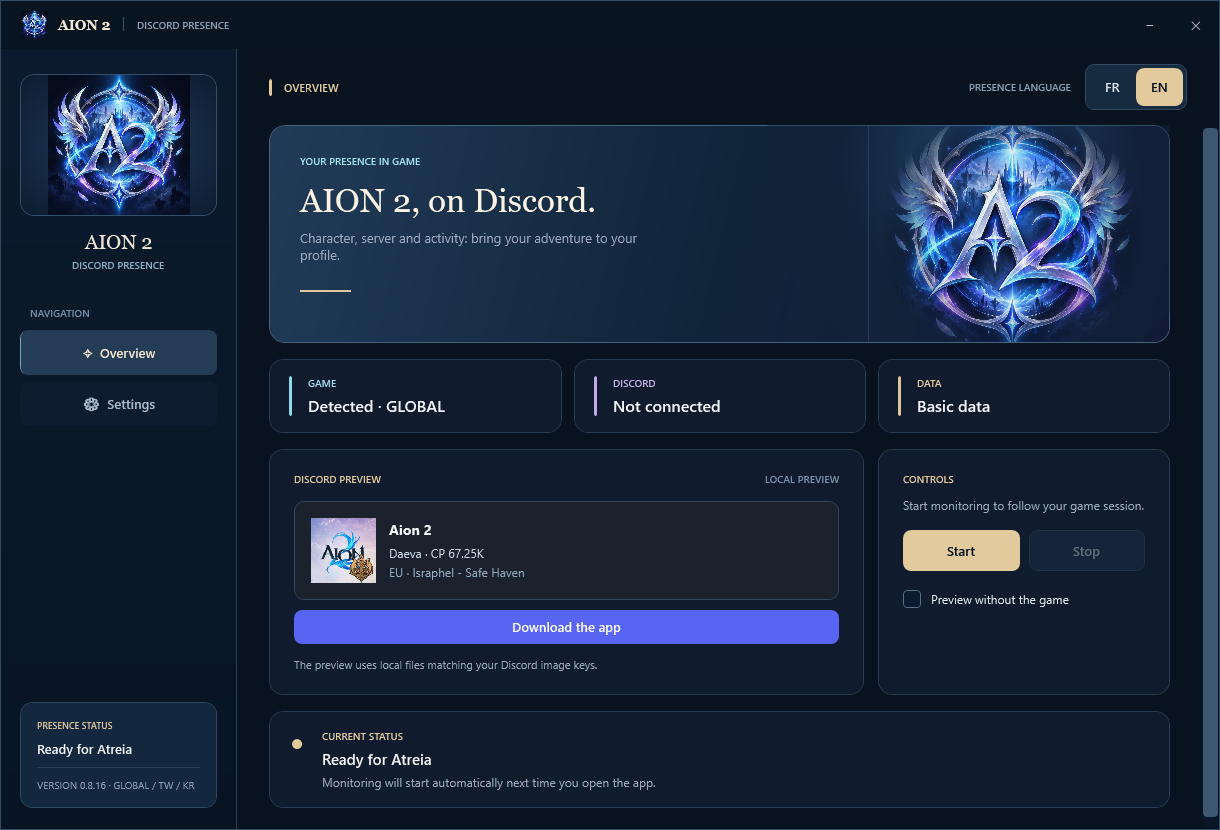
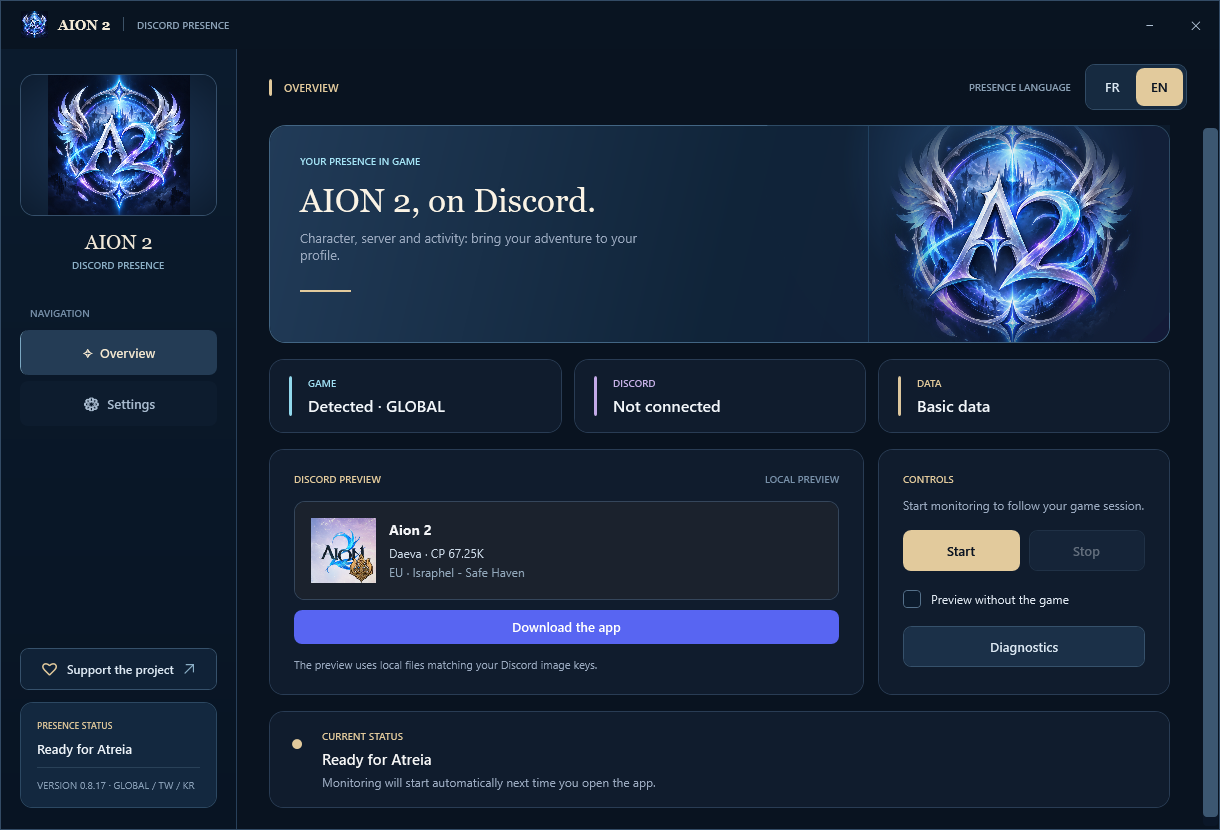
Update documentation and screenshots for 0.8.17

Changed region(s): [[0.7164, 0.753, 0.9656, 0.8133], [0.0311, 0.7831, 0.1557, 0.8133]]

diff --git a/README.md b/README.md
@@ -20,7 +20,7 @@ A Discord developer account is not required. The shared Application ID and game/
 
 ## Download and first setup
 
-1. Download [AionPresence-Setup-0.8.16.exe](https://github.com/KaiiZzeR971/AION-2-Discord-Rich-Presence/releases/download/v0.8.16/AionPresence-Setup-0.8.16.exe) from this repository's Releases.
+1. Download [AionPresence-Setup-0.8.17.exe](https://github.com/KaiiZzeR971/AION-2-Discord-Rich-Presence/releases/download/v0.8.17/AionPresence-Setup-0.8.17.exe) from this repository's Releases.
 2. Run the installer. Installation is required. The app is installed for your Windows account and added to the Start menu.
 3. For Global automatic detection, complete the [Npcap setup](#npcap-setup-for-global) below before starting the game.
 4. Open **AION 2 Discord Presence** from the Start menu once. Select **EN** or **FR**, leave the client selection on **Auto**, and choose which fields to display in Settings.
@@ -29,7 +29,7 @@ A Discord developer account is not required. The shared Application ID and game/
 
 After setup, the app launches quietly near the Windows clock when the game starts. You can open its window from the notification icon. Preferences are saved automatically. Unavailable data and disabled fields are omitted from the presence.
 
-The installer is currently **unsigned**, so Windows may display a warning. A [SHA-256 checksum](https://github.com/KaiiZzeR971/AION-2-Discord-Rich-Presence/releases/download/v0.8.16/AionPresence-Setup-0.8.16.sha256) is provided alongside the installer.
+The installer is currently **unsigned**, so Windows may display a warning. A [SHA-256 checksum](https://github.com/KaiiZzeR971/AION-2-Discord-Rich-Presence/releases/download/v0.8.17/AionPresence-Setup-0.8.17.sha256) is provided alongside the installer.
 
 ## Npcap setup for Global
 
@@ -100,8 +100,13 @@ Default visibility: character, CP, class icon, region, server, zone, party, craf
 - A Discord button linking to this project's latest release. Enabled by default and configurable in **Settings → Visibility**.
 - In-app updates under **Settings → Updates**. Automatic installation is **on by default** for new settings; saved choices are preserved. Background checks run at most every six hours in either mode. If automatic installation is disabled, a Windows notification announces available updates. After installation, a notification confirms the installed version. Downloads are checked against GitHub's SHA-256 digest.
 - Local Discord preview and manual fallback fields.
+- **Privacy mode** from the notification icon menu. Temporarily hide the character, statistics and location without changing saved visibility choices. The game, timer, generic activity and enabled party counter remain available. Disabled by default; once enabled, it stays active across app restarts until unchecked.
+- **Local diagnostics** from the main window or notification icon menu. Check the game, Discord, Npcap, monitoring, received fields, visibility and location catalog without interrupting the presence. Preview and export an anonymized UTF-8 text report. Reports are never sent automatically and exclude character values, local paths, IP addresses, identifiers and raw error details.
+- **Support the project** in the sidebar opens [KaiiZzeR971's Ko-fi page](https://ko-fi.com/kaiizer971) in your browser.
 
 ## Troubleshooting
+
+Start with **Diagnostics** in the main window or notification icon menu. Review its suggested checks and preview the report before exporting it for support. If details are hidden, also check whether Privacy mode is enabled.
 
 | Problem | What to check |
 | --- | --- |
@@ -128,6 +133,8 @@ If a problem continues, open an [issue](https://github.com/KaiiZzeR971/AION-2-Di
 ![Update settings with automatic updates on by default](images/updates-en.png)
 
 ![Visibility settings, including the GitHub button](images/visibility-en.png)
+
+![Local diagnostics](images/diagnostic-en.png)
 
 ## FAQ
 
@@ -161,7 +168,7 @@ Aucun compte développeur Discord n'est nécessaire. L'Application ID partagé e
 
 ### Télécharger et configurer
 
-1. Téléchargez [AionPresence-Setup-0.8.16.exe](https://github.com/KaiiZzeR971/AION-2-Discord-Rich-Presence/releases/download/v0.8.16/AionPresence-Setup-0.8.16.exe) depuis les Releases de ce dépôt.
+1. Téléchargez [AionPresence-Setup-0.8.17.exe](https://github.com/KaiiZzeR971/AION-2-Discord-Rich-Presence/releases/download/v0.8.17/AionPresence-Setup-0.8.17.exe) depuis les Releases de ce dépôt.
 2. Lancez l'installateur. L'installation est obligatoire. L'application est installée pour votre compte Windows et ajoutée au menu Démarrer.
 3. Pour la détection automatique sur Global, effectuez la [configuration Npcap](#configuration-de-npcap-pour-global) ci-dessous avant de lancer le jeu.
 4. Ouvrez une première fois **AION 2 Discord Presence** depuis le menu Démarrer. Choisissez **FR** ou **EN**, laissez la version du client sur **Auto** et choisissez les champs à afficher dans les paramètres.
@@ -170,7 +177,7 @@ Aucun compte développeur Discord n'est nécessaire. L'Application ID partagé e
 
 Après cette configuration, l'application démarre discrètement près de l'horloge Windows avec le jeu. Son icône de notification permet de rouvrir la fenêtre. Les préférences sont sauvegardées automatiquement. Les champs indisponibles ou désactivés sont omis de la présence.
 
-L'installateur est actuellement **non signé** ; Windows peut afficher un avertissement. Une [somme SHA-256](https://github.com/KaiiZzeR971/AION-2-Discord-Rich-Presence/releases/download/v0.8.16/AionPresence-Setup-0.8.16.sha256) accompagne l'installateur.
+L'installateur est actuellement **non signé** ; Windows peut afficher un avertissement. Une [somme SHA-256](https://github.com/KaiiZzeR971/AION-2-Discord-Rich-Presence/releases/download/v0.8.17/AionPresence-Setup-0.8.17.sha256) accompagne l'installateur.
 
 ### Configuration de Npcap pour Global
 
@@ -241,8 +248,13 @@ Affichage initial : personnage, CP, icône de classe, région, serveur, zone, gr
 - Bouton Discord vers la dernière Release du projet, activé par défaut et configurable dans **Paramètres → Visibilité**.
 - Mises à jour intégrées dans **Paramètres → Mises à jour**. L'installation automatique est **activée par défaut** pour les nouveaux réglages ; les choix enregistrés sont conservés. La recherche en arrière-plan se fait au maximum toutes les six heures dans les deux modes. Si l'installation automatique est désactivée, une notification Windows annonce les mises à jour disponibles. Après l'installation, une notification confirme la version installée. Les téléchargements sont vérifiés avec l'empreinte SHA-256 fournie par GitHub.
 - Aperçu Discord local et champs de secours manuels.
+- **Mode confidentialité** depuis le menu de l'icône près de l'horloge. Masquez temporairement le personnage, les statistiques et la localisation sans modifier les choix d'affichage enregistrés. Le jeu, le chrono, l'activité générale et le compteur de groupe activé restent disponibles. Désactivé par défaut ; une fois activé, il reste actif au redémarrage jusqu'à ce que vous le décochiez.
+- **Diagnostic local** depuis la fenêtre principale ou l'icône de notification. Vérifiez le jeu, Discord, Npcap, la surveillance, les champs reçus, l'affichage et le catalogue sans interrompre la présence. Consultez puis exportez un rapport texte anonymisé en UTF-8. Aucun envoi automatique ; le rapport exclut les valeurs du personnage, chemins locaux, adresses IP, identifiants et détails bruts des erreurs.
+- **Soutenir le projet** dans la barre latérale ouvre la [page Ko-fi de KaiiZzeR971](https://ko-fi.com/kaiizer971) dans votre navigateur.
 
 ### Dépannage
+
+Commencez par **Diagnostic** dans la fenêtre principale ou le menu de l'icône de notification. Consultez les vérifications proposées et l'aperçu du rapport avant de l'exporter pour demander de l'aide. Si des détails sont masqués, vérifiez également le mode confidentialité.
 
 | Problème | Vérifications |
 | --- | --- |
@@ -269,6 +281,8 @@ Si le problème persiste, ouvrez une [issue](https://github.com/KaiiZzeR971/AION
 ![Paramètres des mises à jour automatiques activées par défaut](images/updates-fr.png)
 
 ![Options de visibilité avec le bouton GitHub](images/visibility-fr.png)
+
+![Diagnostic local](images/diagnostic-fr.png)
 
 ### Questions courantes
 
